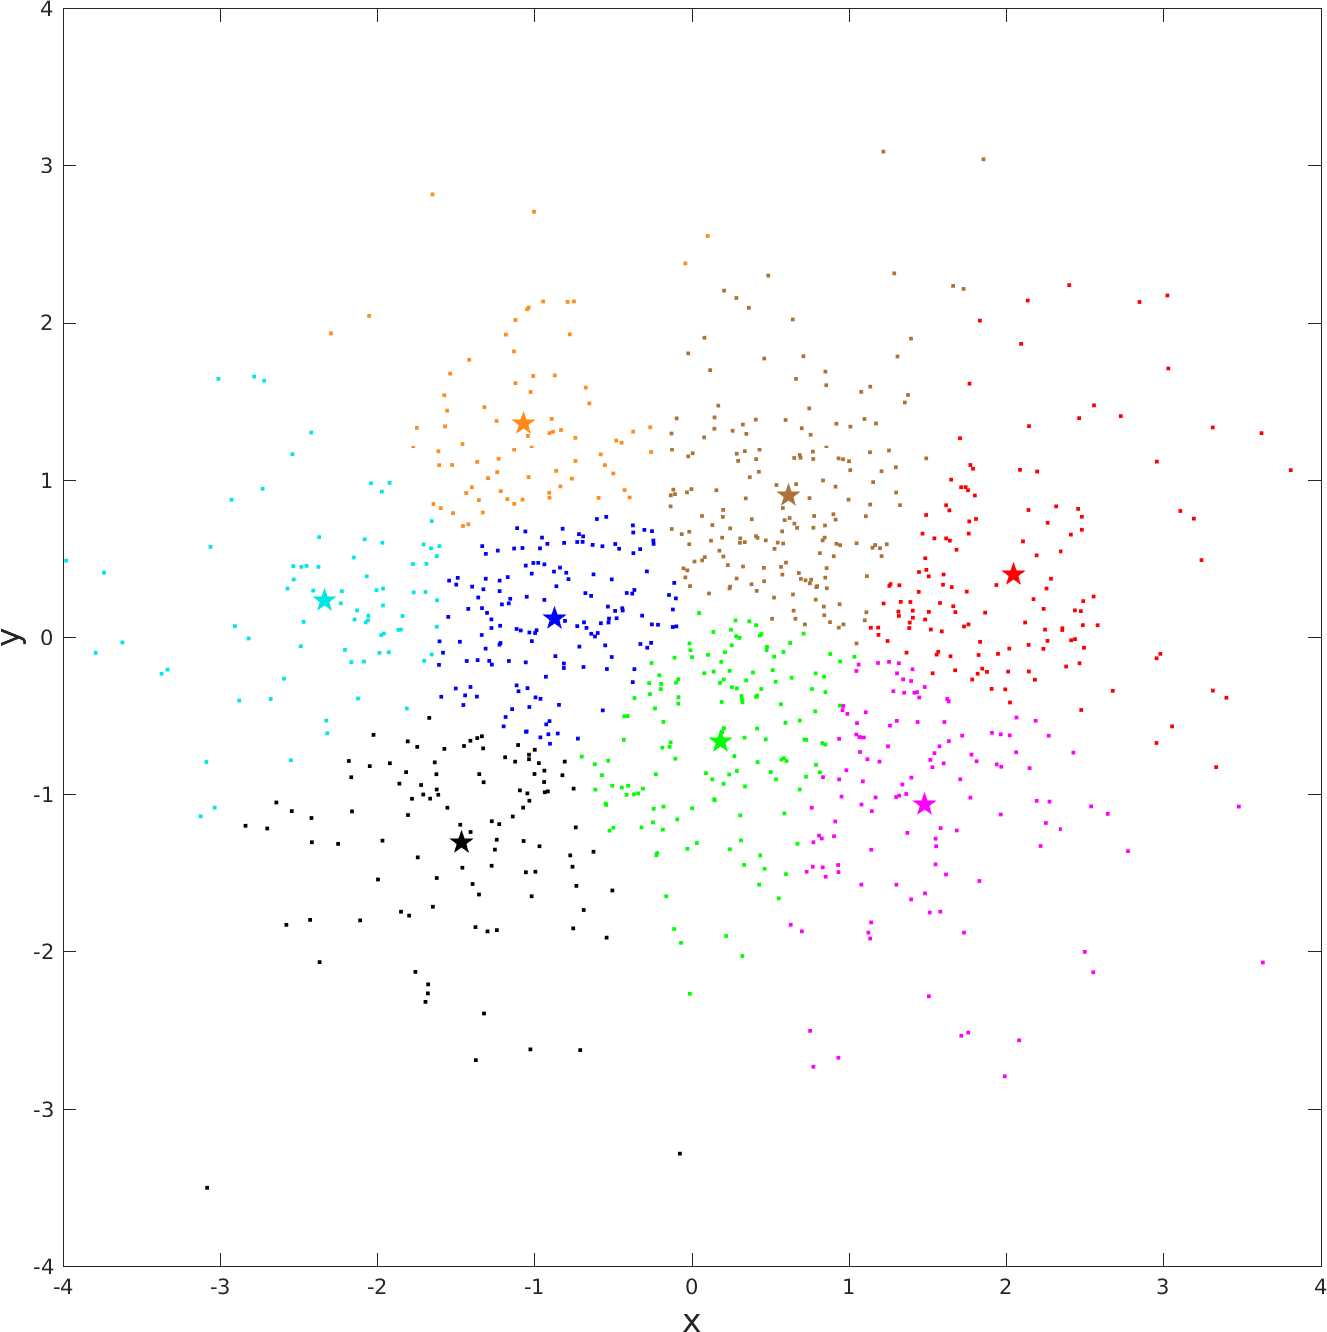
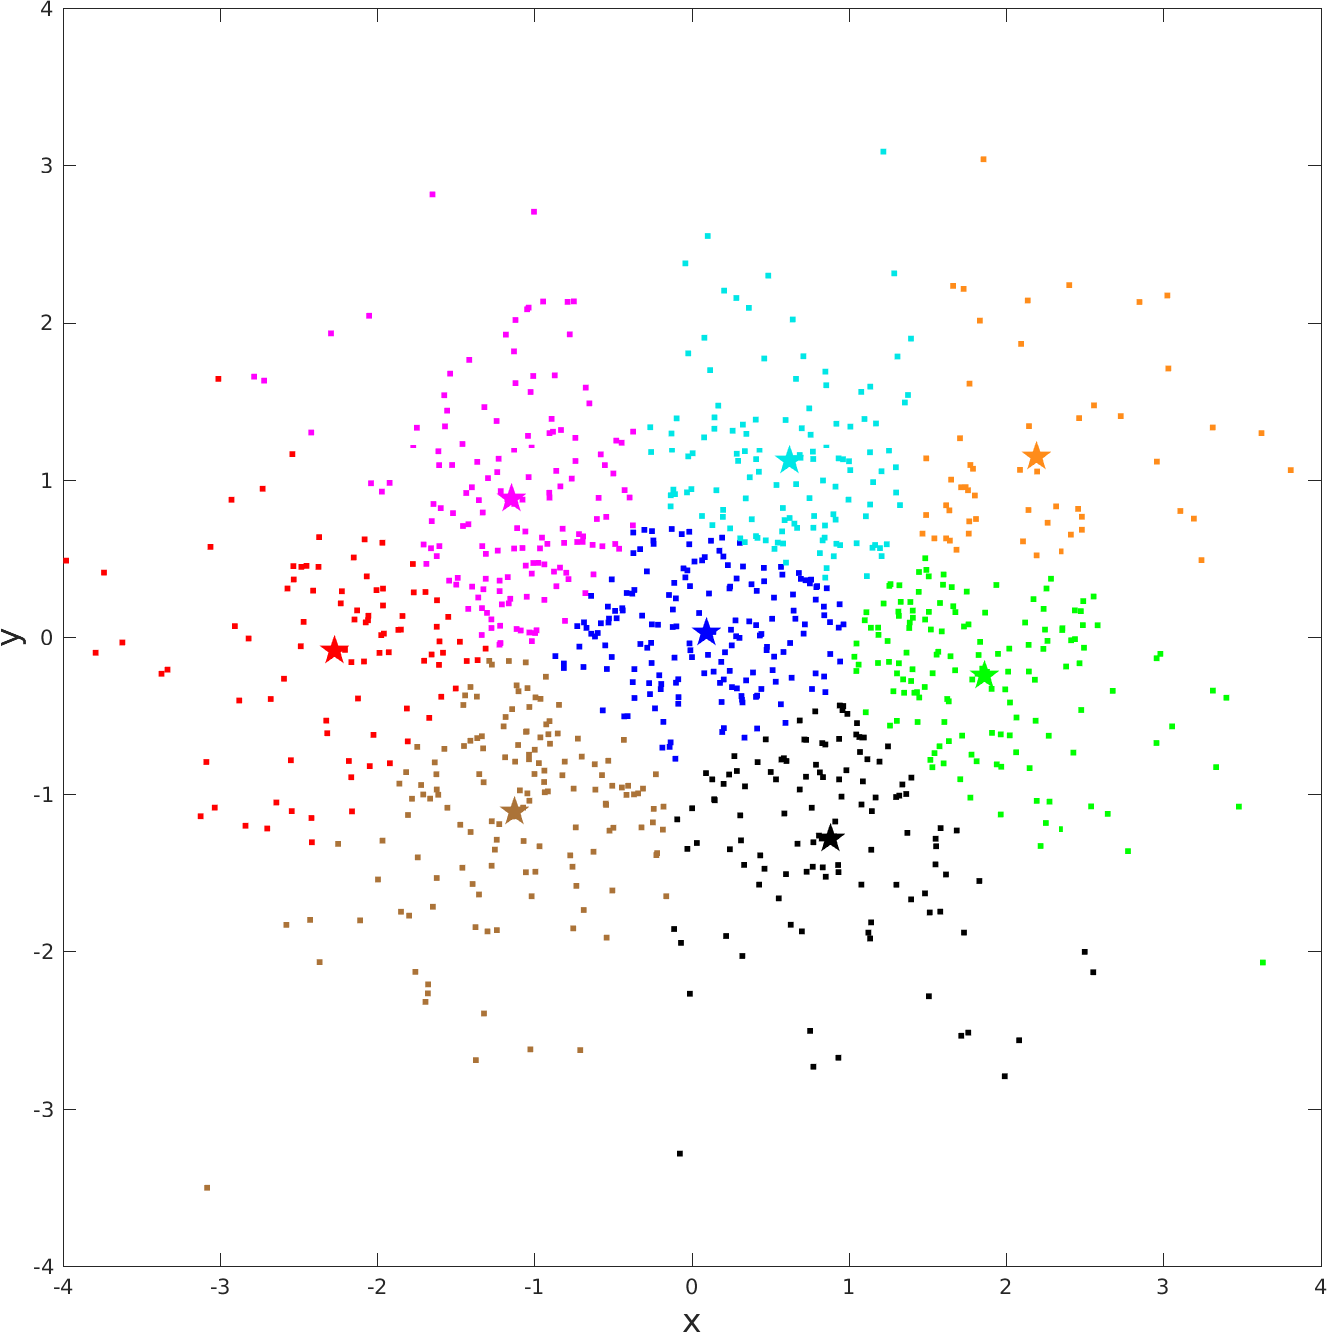
more images per page

diff --git a/Assignment5/Assignment5.tex b/Assignment5/Assignment5.tex
@@ -27,12 +27,12 @@
       \captionof{figure}{#2}
     \end{center}
     \label{#3}
-  \end{minipage}\hspace{7pt}
+  \end{minipage}\hspace{6pt}
 }
 \newcommand{\simplefigure}[3]{
-	\begin{figure}[H]
+	\noindent\begin{figure}[H]
   	\centering
-    	\makebox[\textwidth]
+    	\makebox[.6\textwidth]
     	{
     		\includegraphics[width=1\textwidth]{#1}
  		} \\
@@ -46,9 +46,27 @@
 
 \section{K-means}
 \section{Decision tree}
+In order to build a decision tree we first need to know what decisions we could make, in order to make this as simple as possible we will only make binary choices. Doing so we decide upon the decision questions in \ref{}
+$i \left ( N \right ) = 1 - \max _{j} P\left ( \omega _{j} \right )$\\
+$\Delta i \left ( N \right ) = i \left ( N \right ) - P_{L}i\left ( N_{L} \right ) - P_{R}i\left ( N_{R} \right )$\\
+Using these formula we can make a decision on what way to order the tree by trying to maximising the impurity drop, so that we always make the decision that reduces the amount of miss classifications the most.\\
+$i_{start} = 1 - \frac{1}{5} = \frac{4}{5} $\\
+$\Delta i_{fin} = \frac{4}{5} - \left ( \frac{3}{5}  \cdot \frac{2}{3} \right ) - \left ( \frac{2}{5} \cdot \frac{1}{2}\right ) = 0.2$\\
+$\Delta i_{fluke} = \frac{4}{5} - \left ( \frac{3}{5}  \cdot \frac{2}{3} \right ) - \left ( \frac{2}{5} \cdot \frac{1}{2}\right ) = 0.2$\\
+$\Delta i_{size} = \frac{4}{5} - \left ( \frac{3}{5}  \cdot \frac{2}{3} \right ) - \left ( \frac{2}{5} \cdot \frac{1}{2}\right ) = 0.2$\\
+$\Delta i_{tooth} = \frac{4}{5} - \left ( \frac{1}{5}  \cdot \frac{0}{1} \right ) - \left ( \frac{4}{5} \cdot \frac{3}{4}\right ) = 0.2$\\
+At this point any question can be chosen, but let’s go with the fluke.
+This will give us two possible situations lets start with whales that do not show a fluke. In this case only one question will give us more information and that is whether it has a dorsal fin, if so then it's a killer whale otherwise it's a beluga.
+now the other possibility is examined where the whale flukes when it dives. This gives us the following impurity drops.\\
+$i_{fluke} = 1 - \frac{1}{3} = \frac{2}{3} $\\
+$\Delta i_{fin|fluke} = \frac{2}{3} - \left ( \frac{1}{3}  \cdot \frac{0}{1} \right ) - \left ( \frac{2}{3} \cdot \frac{1}{2}\right ) = \frac{1}{3}$\\
+$\Delta i_{size|fluke} = \frac{2}{3} - \left ( \frac{1}{3}  \cdot \frac{0}{1} \right ) - \left ( \frac{2}{3} \cdot \frac{1}{2}\right ) = \frac{1}{3}$\\
+$\Delta i_{tooth|fluke} = \frac{2}{3} - \left ( \frac{1}{3}  \cdot \frac{0}{1} \right ) - \left ( \frac{2}{3} \cdot \frac{1}{2}\right ) = \frac{1}{3}$\\
+At this leaf anything can be chosen lets go with the presence of a dorsal fin, if this is present we are done other wise there are still two possibilities left namely a Narwhal whale or a Bowhead whale. To make a distinction between those two we can decide either by the presence of a elongated front tooth or by the rather sizeable size difference. Let's choose to go with the size difference. we now end up with the same decision tree as running the c4.5 algorithm in Weka did.
+
 \section{K-nearest neighbours}
 \subsection{K-nearest neighbours implementation}
-The implementation is available in \ref{ap:knn}
+The implementation is availab le in \ref{ap:knn}
 
 \subsection{Classification for different values of K} \label{ss:class}
 \ref{ap:knn_img} contains the resulting images. When K = 1, the two groups of points, the green circles and the red crosses, have their own well-defined territory. As values of K increase, more members of a class seem to be in an area which would be classified as the other. This makes sense, as more matches are necessary to come to a satisfactory conclusion. In an area mostly populated by green circles, a new point taking the five closest distances is very likely to end up with more green circles as nearest points than red crosses.
@@ -82,20 +100,33 @@ Selecting the class with the closest point gives an argument to support the sele
   \simplesubfigure{./matlab/img/z8}{uniform data K=8}{fig:z18}%
   \simplesubfigure{./matlab/img/z28}{uniform data K=8}{fig:z28}%
 \subsection{Decision tree}
-\simplefigure{./tree}{decision tree generated with the c4 algorithm using weka}{fig:tree}
+\begin{center}
+\begin{tabular}{l | l l l l}
+\textbf{species} & \textbf{shows fluke when diving} & \textbf{has dorsal fin} & \textbf{is larger then 20 meter} & \textbf{has a elongated tooth}\\
+\hline
+Killer whale & no & yes & no & no\\
+Beluga whale & no & no & no & no\\
+Narwal whale & yes & no & no & yes\\
+Bowhead whale & yes & no & yes & no\\
+Blue whale & yes & yes & yes & no\\
+\end{tabular}
+\captionof{table}{Possible choices to be made in the classification of whales against the implications of the answers}
+\label{tab:1}
+\end{center}
+\simplefigure{./tree}{decision tree generated with the j48 implementation of the c4.5 algorithm using Weka}{fig:tree}%
 
 \subsection{K-nearest neighbours}\label{ap:knn_img}
 \subsubsection{Number of classes = 2}
-\simplesubfigure{./matlab/img/3_1_2.png}{K = 1, Nr of classes = 2}{fig:3_1_2}
-\simplesubfigure{./matlab/img/3_3_2.png}{K = 3, Nr of classes = 2}{fig:3_1_2}
-\simplesubfigure{./matlab/img/3_5_2.png}{K = 5, Nr of classes = 2}{fig:3_1_2}
-\simplesubfigure{./matlab/img/3_7_2.png}{K = 7, Nr of classes = 2}{fig:3_1_2}
+\simplesubfigure{./matlab/img/3_1_2.png}{K = 1, Nr of classes = 2}{fig:3_1_2}%
+\simplesubfigure{./matlab/img/3_3_2.png}{K = 3, Nr of classes = 2}{fig:3_1_2}%
+\simplesubfigure{./matlab/img/3_5_2.png}{K = 5, Nr of classes = 2}{fig:3_1_2}%
+\simplesubfigure{./matlab/img/3_7_2.png}{K = 7, Nr of classes = 2}{fig:3_1_2}%
 
 \subsubsection{Number of classes = 4}
-\simplesubfigure{./matlab/img/3_1_4.png}{K = 1, Nr of classes = 4}{fig:3_1_4}
-\simplesubfigure{./matlab/img/3_3_4.png}{K = 3, Nr of classes = 4}{fig:3_1_4}
-\simplesubfigure{./matlab/img/3_5_4.png}{K = 5, Nr of classes = 4}{fig:3_1_4}
-\simplesubfigure{./matlab/img/3_7_4.png}{K = 7, Nr of classes = 4}{fig:3_1_4}
+\simplesubfigure{./matlab/img/3_1_4.png}{K = 1, Nr of classes = 4}{fig:3_1_4}%
+\simplesubfigure{./matlab/img/3_3_4.png}{K = 3, Nr of classes = 4}{fig:3_1_4}%
+\simplesubfigure{./matlab/img/3_5_4.png}{K = 5, Nr of classes = 4}{fig:3_1_4}%
+\simplesubfigure{./matlab/img/3_7_4.png}{K = 7, Nr of classes = 4}{fig:3_1_4}%
 
 \section{code}
 \subsection{k-means}

diff --git a/Assignment5/matlab/plotKMeans.m b/Assignment5/matlab/plotKMeans.m
@@ -12,8 +12,8 @@ function [  ] = plotKMeans( means, clusters, name )
     
     for i = 1:k
         cluster = clusters{i};
-        s1 = scatter(cluster(:, 1), cluster(:, 2), 30, '.' );
-        s2 = scatter(means(i, 1), means(i, 2), 150, 'filled', 'p');
+        s1 = scatter(cluster(:, 1), cluster(:, 2), 70, '.' );
+        s2 = scatter(means(i, 1), means(i, 2), 230, 'filled', 'p');
         s1.MarkerEdgeColor = colours{i};
         s2.MarkerFaceColor = s1.MarkerEdgeColor;
     end

diff --git a/Assignment5/matlab/main.m b/Assignment5/matlab/main.m
@@ -6,6 +6,6 @@ x = w6_1x;
 y = w6_1y;
 z = w6_1z;
 
-%[means, mask] = simpleKMeans(z, 8);
+[means, mask] = simpleKMeans(x, 2);
 
-%plotKMeans(means, mask, 'z2');
+plotKMeans(means, mask, 'x');
